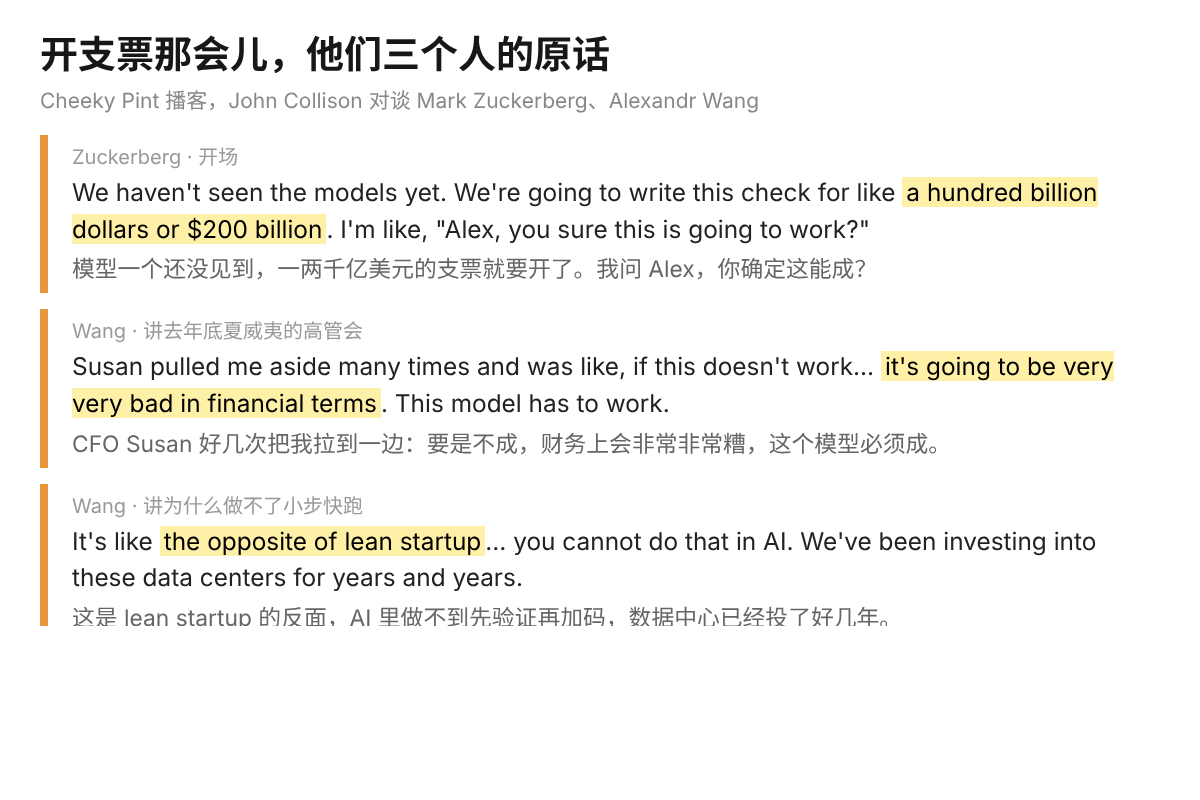
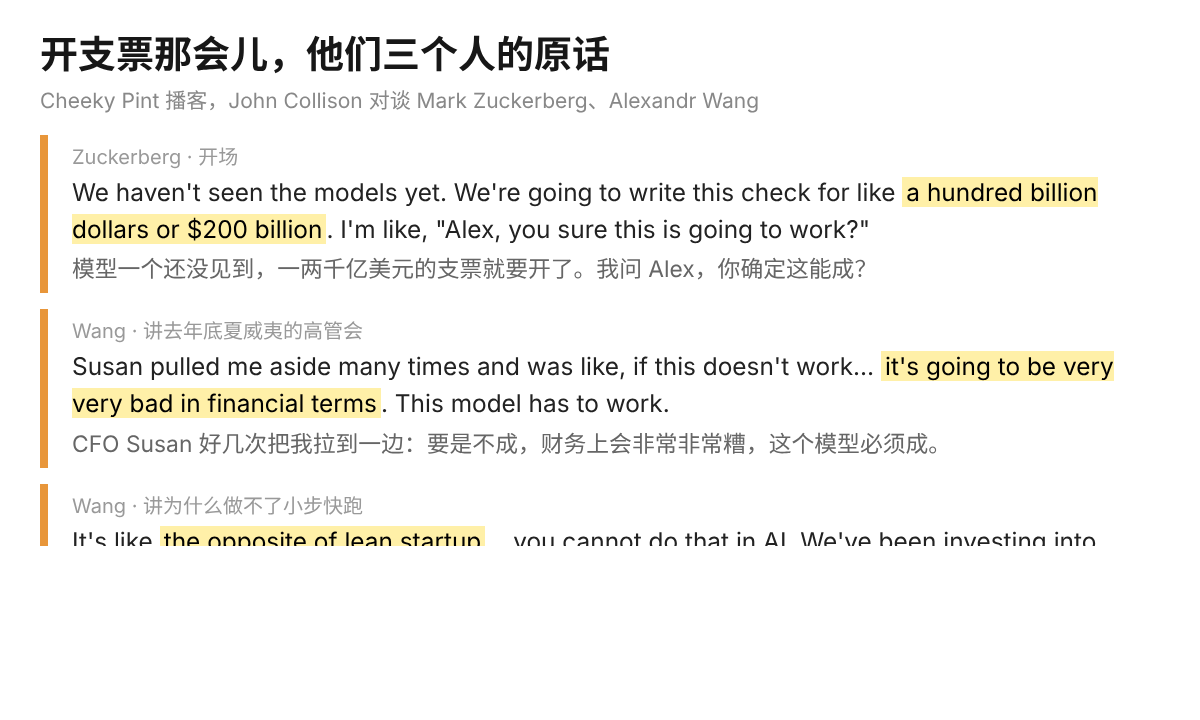
10-13 Muse Wonder 稿：首页原话图去掉被裁的一行
Claude-Session: https://claude.ai/code/session_01U7qz4eSZJWs6Xuu86S4WTN

Changed region(s): [[0.0308, 0.1833, 0.9558, 0.7944], [0.0308, 0.0306, 0.6475, 0.1833], [0.0308, 0.6417, 0.0617, 0.6722]]

diff --git a/发布/2026-10-13_zuck-wang-muse-wonder/meme版/编辑用/quote.html b/发布/2026-10-13_zuck-wang-muse-wonder/meme版/编辑用/quote.html
@@ -1,5 +1,5 @@
 <!doctype html><html><head><meta charset="utf-8"><style>
-body{margin:0;width:600px;height:400px;background:#fff;font-family:-apple-system,"PingFang SC","Noto Sans CJK SC",sans-serif;color:#171717}
+body{margin:0;width:600px;height:360px;background:#fff;font-family:-apple-system,"PingFang SC","Noto Sans CJK SC",sans-serif;color:#171717}
 .wrap{padding:12px 20px}
 h1{font-size:19px;margin:0 0 3px;font-weight:700}
 .sub{font-size:10.5px;color:#888;margin-bottom:10px}
@@ -13,5 +13,5 @@ h1{font-size:19px;margin:0 0 3px;font-weight:700}
 <div class="sub">Cheeky Pint 播客，John Collison 对谈 Mark Zuckerberg、Alexandr Wang</div>
 <div class="q"><div class="t">Zuckerberg · 开场</div><div class="en">We haven't seen the models yet. We're going to write this check for like <mark>a hundred billion dollars or $200 billion</mark>. I'm like, "Alex, you sure this is going to work?"</div><div class="zh">模型一个还没见到，一两千亿美元的支票就要开了。我问 Alex，你确定这能成？</div></div>
 <div class="q"><div class="t">Wang · 讲去年底夏威夷的高管会</div><div class="en">Susan pulled me aside many times and was like, if this doesn't work… <mark>it's going to be very very bad in financial terms</mark>. This model has to work.</div><div class="zh">CFO Susan 好几次把我拉到一边：要是不成，财务上会非常非常糟，这个模型必须成。</div></div>
-<div class="q"><div class="t">Wang · 讲为什么做不了小步快跑</div><div class="en">It's like <mark>the opposite of lean startup</mark>… you cannot do that in AI. We've been investing into these data centers for years and years.</div><div class="zh">这是 lean startup 的反面，AI 里做不到先验证再加码，数据中心已经投了好几年。</div></div>
+<div class="q"><div class="t">Wang · 讲为什么做不了小步快跑</div><div class="en">It's like <mark>the opposite of lean startup</mark>… you cannot do that in AI. We've been investing into these data centers for years and years.</div></div>
 </div></body></html>
